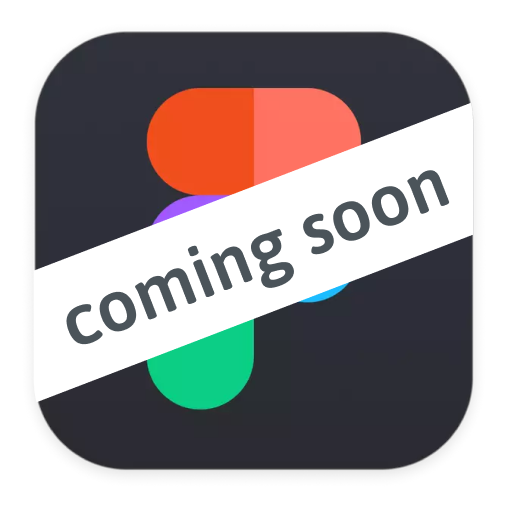
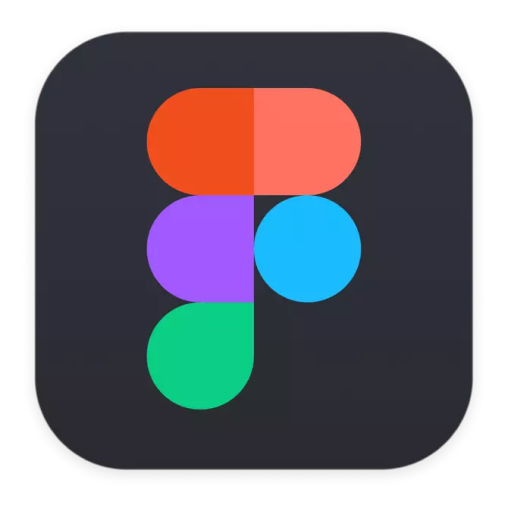
added links to figma prototypesgit add . yaygit add .

Changed region(s): [[0.0591, 0.2063, 0.9449, 0.7957]]

diff --git a/abtest.html b/abtest.html
@@ -23,9 +23,11 @@ permalink: /ab-testing/
         {% include components/subhead.html
         subhead='check out this case study in figma!' %}
 
+        <a target="_blank" href="https://www.figma.com/proto/XlvniFxEO8fdDSVVtaXpya/Case-study:-A-B-Testing?page-id=73%3A68449&node-id=103%3A147608&viewport=263%2C495%2C0.0861445888876915&scaling=scale-down-width&hide-ui=1">
         {% include components/image-block.html
         class='image-block'
         img='ab-testing/figma.png' alt = 'figma logo' %}
+        </a>
       </div>
     </div>
 

diff --git a/routing.html b/routing.html
@@ -23,9 +23,11 @@ permalink: /routing/
         {% include components/subhead.html
         subhead='check out this case study in figma!' %}
 
+        <a target="_blank" href="https://www.figma.com/proto/Yz4vmPY3AUJruT9R9XiIID/Case-study:-Routing?page-id=112%3A68464&node-id=112%3A85752&viewport=407%2C161%2C0.0556357204914093&scaling=scale-down-width&hide-ui=1">
         {% include components/image-block.html
         class='image-block'
         img='ab-testing/figma.png' alt = 'figma logo' %}
+        </a>
       </div>
     </div>
 
